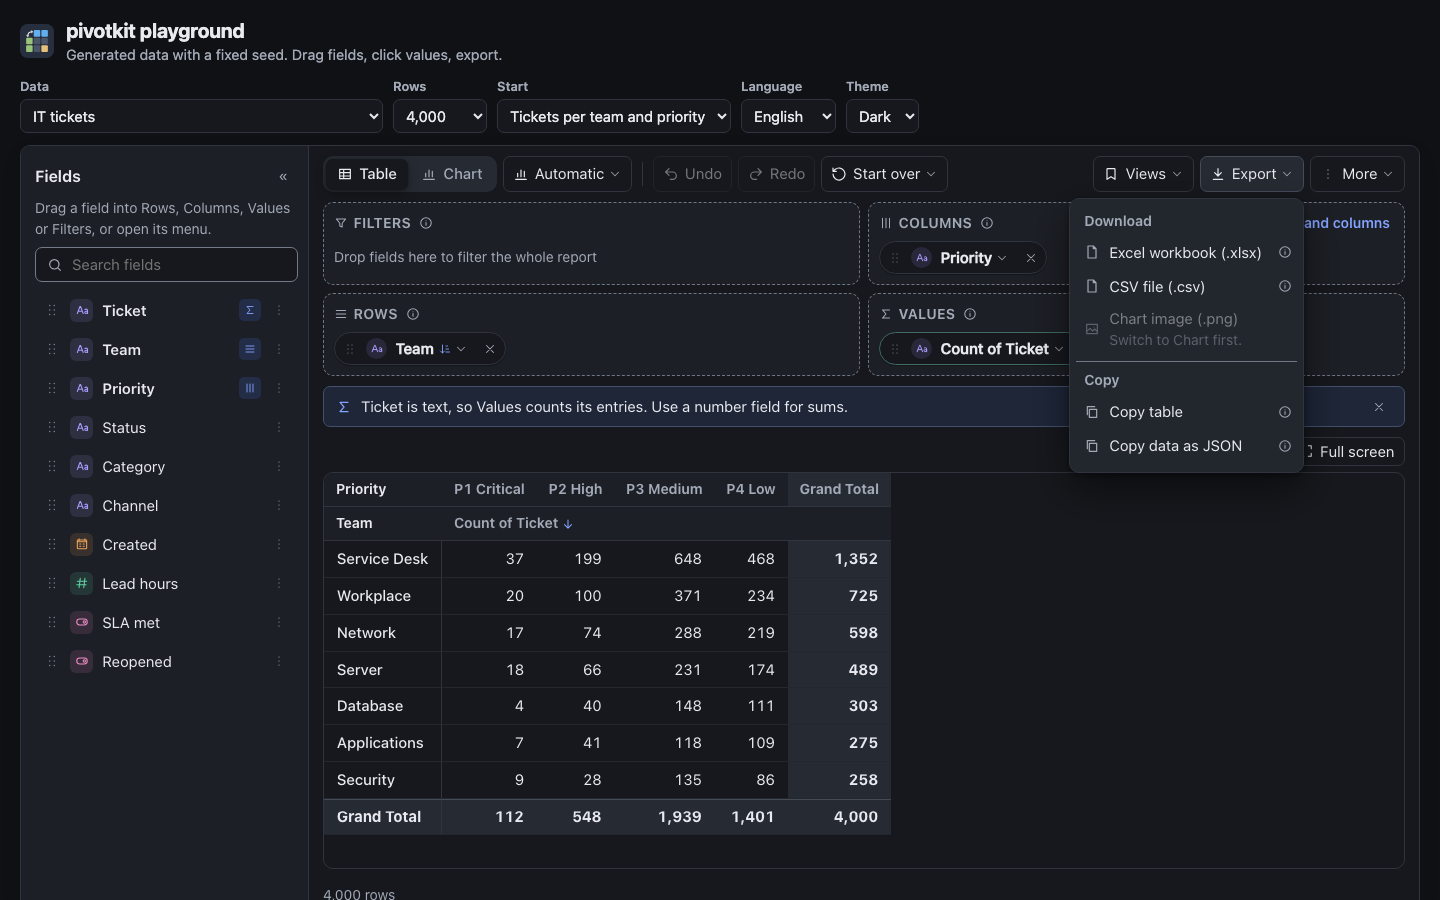
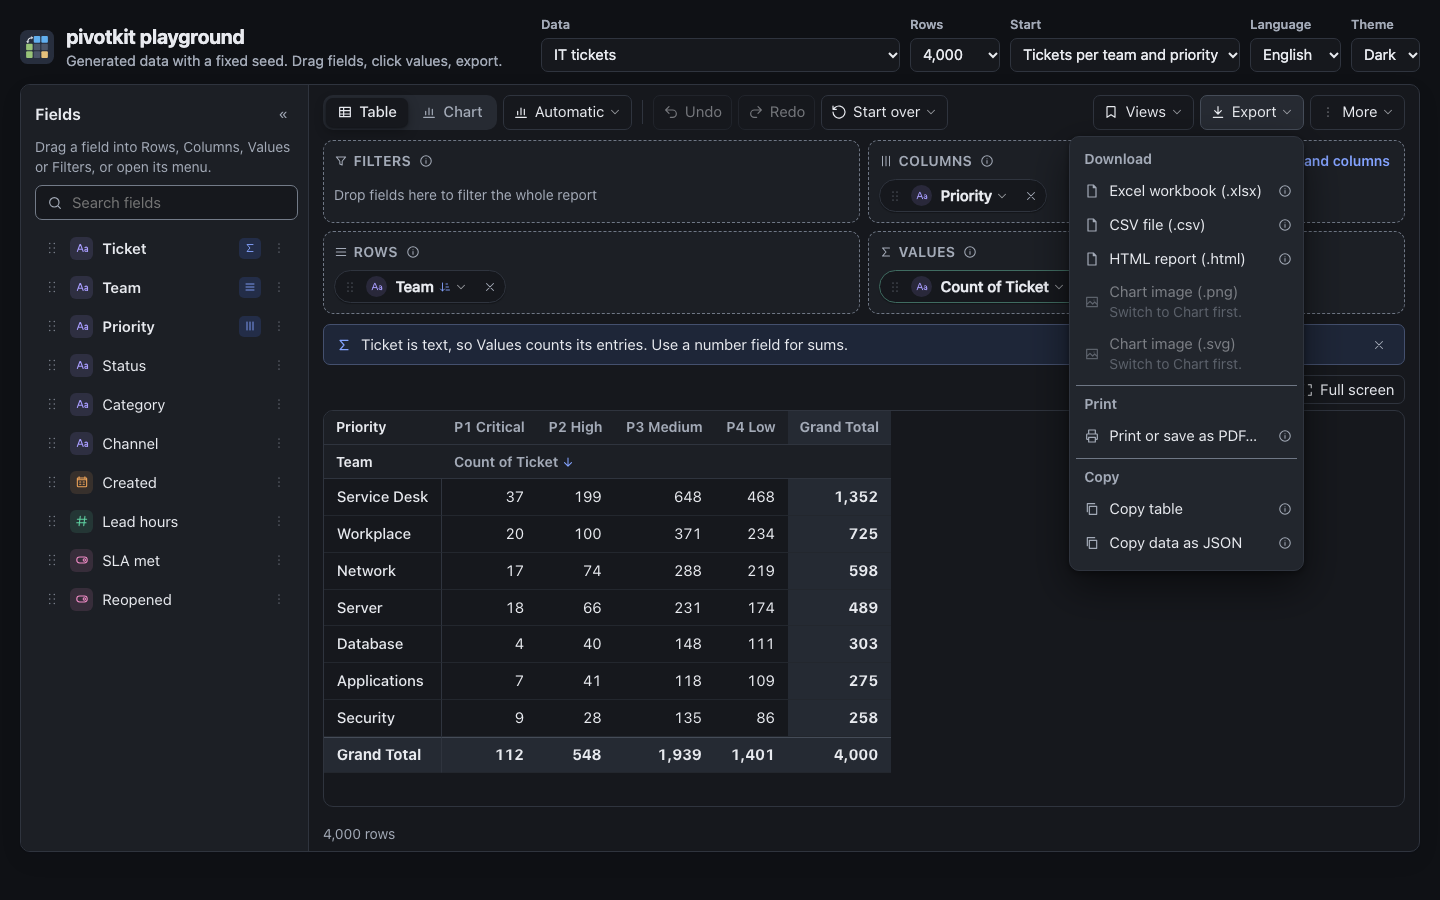
docs: CLI options, files and allow-dir limits; export menu screenshots
--bom, extensions, checked environment defaults, ignoredOption, a positional starting with {, mkdir -p in the CI example, hard links and the temporary file; security.md says --allow-dir is not a sandbox; AGENTS.md uses npx pivotkit-cli. Export menu screenshots taken again after merging main (printer icon).

diff --git a/docs/reference/cli.md b/docs/reference/cli.md
@@ -29,7 +29,8 @@ Node 22 or later. It brings [pivotkit-report](report.md), pivotkit-core, pivotki
 
 `<view>` is a view file, a view as JSON text (`'{"rows":["Region"]}'`), or `-` for stdin;
 `--link <url>` reads it from a [pivotkit link](../concepts/sharing.md) instead (`--key` for a page with
-several reports). Only one input can come from stdin.
+several reports). Only one input can come from stdin. An argument that starts with `{` is always
+read as JSON text: a file whose name starts with `{` is given as `./{name}.json`.
 
 ## Options
 
@@ -38,25 +39,30 @@ several reports). Only one input can come from stdin.
 | `--data <file>` | render, validate, describe | CSV, TSV, JSON or XLSX, or `-` for stdin ([what is read](import.md)). |
 | `--data-format csv\|json\|xlsx` | | The data's format; needed for stdin, else the file's extension. |
 | `--sheet <name>` | | The sheet of a workbook. |
-| `-f, --format html\|csv\|json\|xlsx\|svg` | render | Default: the extension of `-o`, else `html`. |
-| `-o, --output <file>` | render | Write here instead of stdout. A regular file there is replaced whole; a link, a directory or a device is refused. |
-| `--template <file>` | render | A [print template](print-template.md) for `html`. |
-| `--title <text>` | render | The report's title (default the view file's name). |
+| `-f, --format html\|csv\|json\|xlsx\|svg` | render | Default: the extension of `-o` (`.htm` is `html`); another extension, or none, is a usage error. On stdout `html`. |
+| `-o, --output <file>` | render | Write here instead of stdout. A regular file there is replaced whole; a link, a directory or a device is refused. Its directory must exist. |
+| `--template <file>` | render | `html`: a [print template](print-template.md). |
+| `--title <text>` | render | `html`, `xlsx`: the report's title (default the view file's name). |
 | `--chart auto\|on\|off` | render | `html`: the chart above the table (`auto`: when the view shows the chart). |
-| `--width`, `--height <px>` | render | The chart's size (800 x 480). |
+| `--width`, `--height <px>` | render | `svg`, `html`: the chart's size (800 x 480). |
+| `--bom auto\|on\|off` | render | `csv`: a byte order mark first, so Excel reads the file as UTF-8. `auto`: in a file of `-o`, not on stdout, where a program would read it as part of the first header. |
 | `--lenient` | render | Write the output also when the view has errors, as the report shows it; still exit 1. |
 | `--strict` | render, validate | Warnings are findings too. |
 | `--as view\|data` | describe | Read the input as a view or as data (default: a view when it is one). |
 | `--items <n>` | describe | Data: list up to n values of each field (default none). |
 | `--json` | all | One JSON object on stdout (render: needs `-o`). |
 | `-q, --quiet` | all | No warnings on stderr; errors still. |
-| `--locale <tag>` | all | Default `en-US`; environment `PIVOTKIT_LOCALE`. |
-| `--time-zone <zone>` | all | Default `UTC`; environment `PIVOTKIT_TIME_ZONE`. |
-| `--now <date>` | all | "Today" of relative filters and the generated time; environment `PIVOTKIT_NOW`. |
+| `--locale <tag>` | render (checked by all) | Default `en-US`; environment `PIVOTKIT_LOCALE`. The locale also picks the CSV separator (`;` where the decimal mark is a comma). |
+| `--time-zone <zone>` | all | The data's dates; default `UTC`; environment `PIVOTKIT_TIME_ZONE`. |
+| `--now <date>` | render (checked by all) | "Today" of relative filters and the generated time; environment `PIVOTKIT_NOW`. |
 | `--limit key=n` | all | One of pivotkit-core's [limits](../concepts/limits.md) (`--limit rows=200000`); repeatable. |
 | `--allow-dir <dir>` | all | Read and write only inside this directory; repeatable. |
 
-An option on the command line wins over its environment variable. The CLI writes no colours.
+An option on the command line wins over its environment variable. Every command checks `--locale`,
+`--time-zone` and `--now` (from the command line or the environment, and the message names the
+variable), so a wrong value in a pipeline's environment fails in every step, not only in `render`. An
+option given for a format it does nothing in (`--width` with `csv`) is a warning `ignoredOption`. The
+CLI writes no colours.
 
 ## Exit codes
 
@@ -100,12 +106,19 @@ file with `source.fields`) to check the fields.
   a FIFO never makes the CLI wait), and its size is checked against `fileBytes` (100 MiB) **before**
   it is read; a view file has at most 4 MB, a template 1 MB.
 - **Output** goes to a new temporary file next to the target, then replaces it: no half-written
-  file. A link, a directory or another non-regular file at the target is never replaced.
+  file. A link, a directory or another non-regular file at the target is never replaced; for stdout
+  leave out `-o` (`-o /dev/stdout` is a device). The directory is not created. A run killed between
+  the two steps leaves the temporary file (`.<name>.<pid>-<random>.tmp`).
+- A file that has more bytes when it is read than its size said (it grew, or a `/proc` file that
+  says 0) is refused, never cut.
 - **`--allow-dir`** is a hard limit: every file read or written must lie inside one of the
   directories after its real path is resolved (symbolic links and `..` followed), checked on the
   path and again on the opened file. Without it the CLI reads and writes with your own rights, as any
-  command-line tool does. It narrows what a mistake or a hostile view file name can reach; it is not
-  a sandbox against another process of the same user that changes the directories while it runs.
+  command-line tool does. It narrows what a mistake or a hostile view file name can reach; it is
+  **not a sandbox**: not against another process of the same user that changes the directories while
+  it runs, and a hard link inside an allowed directory to a file outside it reads that file (no path
+  check can tell a hard link apart). Run the CLI as a user that can only reach what it should, or in
+  a container, where that matters.
 - **Messages** name a file by its base name and never print a file's content; names and messages
   from a view or the data are cleaned of control characters and cut at 200 characters.
 - Templates and file paths come only from the person running the command; a server built on the
@@ -125,6 +138,7 @@ The scripts, like the help, are made from the CLI's one table of commands and op
 ## In CI
 
 ```bash
+mkdir -p out
 pivotkit validate views/sales.pivot.json --data fixtures/sales.csv --strict
 pivotkit render views/sales.pivot.json --data fixtures/sales.csv -o out/sales.html --now 2026-01-01 --json > out/report.json
 ```

diff --git a/AGENTS.md b/AGENTS.md
@@ -189,7 +189,7 @@ npm run size -w pivotkit-element    # build the element and print what a page lo
 npm run size -w pivotkit-xlsx       # build pivotkit-xlsx's dist/, gzip of the plugin and its reader against the budget
 npm run bench -w pivotkit-xlsx      # read time and memory of a generated 94,000-row workbook (-- --browser: Chromium too)
 npm run bench -w pivotkit-core      # engine timings for 2k, 4k and 100k rows
-npx pivotkit render view.json --data data.csv -o out.html   # the CLI of this repository (packages/pivotkit-cli)
+npx pivotkit-cli render view.json --data data.csv -o out.html   # the CLI of this repository (packages/pivotkit-cli; the package name, as outside it)
 PIVOTKIT_UPDATE_GOLDEN=1 npm test -w pivotkit-report   # rebuild pivotkit-report's golden files after a wanted change
 npm run bench:browser               # the report in Chromium, Firefox and WebKit, 100k to 1M rows (-- --runs 3 --sizes 100000 --browsers chromium)
 node scripts/schemas.js             # rebuild pivotkit-core's JSON Schemas from the engine's tables

diff --git a/docs/security.md b/docs/security.md
@@ -145,8 +145,10 @@ uploaded, and a hostile file affects only that person's tab. Its readers treat i
 
 `pivotkit` ([pivotkit-cli](reference/cli.md#files)) reads a file once, as a regular file, after its
 size is checked; writes through a temporary file; never replaces a link or a directory; and with
-`--allow-dir` reads and writes only inside the directories named, by real path. Its messages never
-hold a file's content, and `describe` shows a data file's values only when asked (`--items`).
+`--allow-dir` reads and writes only inside the directories named, by real path. `--allow-dir` is not a
+sandbox: a hard link inside an allowed directory reaches the file it names, and another process of
+the same user can change the directories while the CLI runs. Its messages never hold a file's
+content, and `describe` shows a data file's values only when asked (`--items`).
 
 ## Content-Security-Policy
 

diff --git a/docs/reference/report.md b/docs/reference/report.md
@@ -86,7 +86,7 @@ ignored.
 
 A bad view never throws: its issues come back. `PivotkitError` is thrown for a wrong argument
 (`INVALID_ARGUMENT`), a wrong option (`INVALID_OPTION` with `details.option`: an unknown `format`, a
-`size` out of range, an unknown option, an SVG or `chart: true` without `echarts`, a `now` that is no date), a limit (`LIMIT_EXCEEDED`) and
+`size` out of range, an unknown option, a `chart`, `chartEmbed`, `bom`, `strict` or `trusted` of a value it does not take, an SVG or `chart: true` without `echarts`, a `now` that is no date), a limit (`LIMIT_EXCEEDED`) and
 a refused template (`INVALID_TEMPLATE`, see [print template](print-template.md)). The report's own
 issues are warnings: `chartUnavailable` (a view that shows the chart, rendered as HTML with `chart`
 `"auto"` and without `echarts`: the table is there, the chart is not; pass `strict` and check `ok`, or
